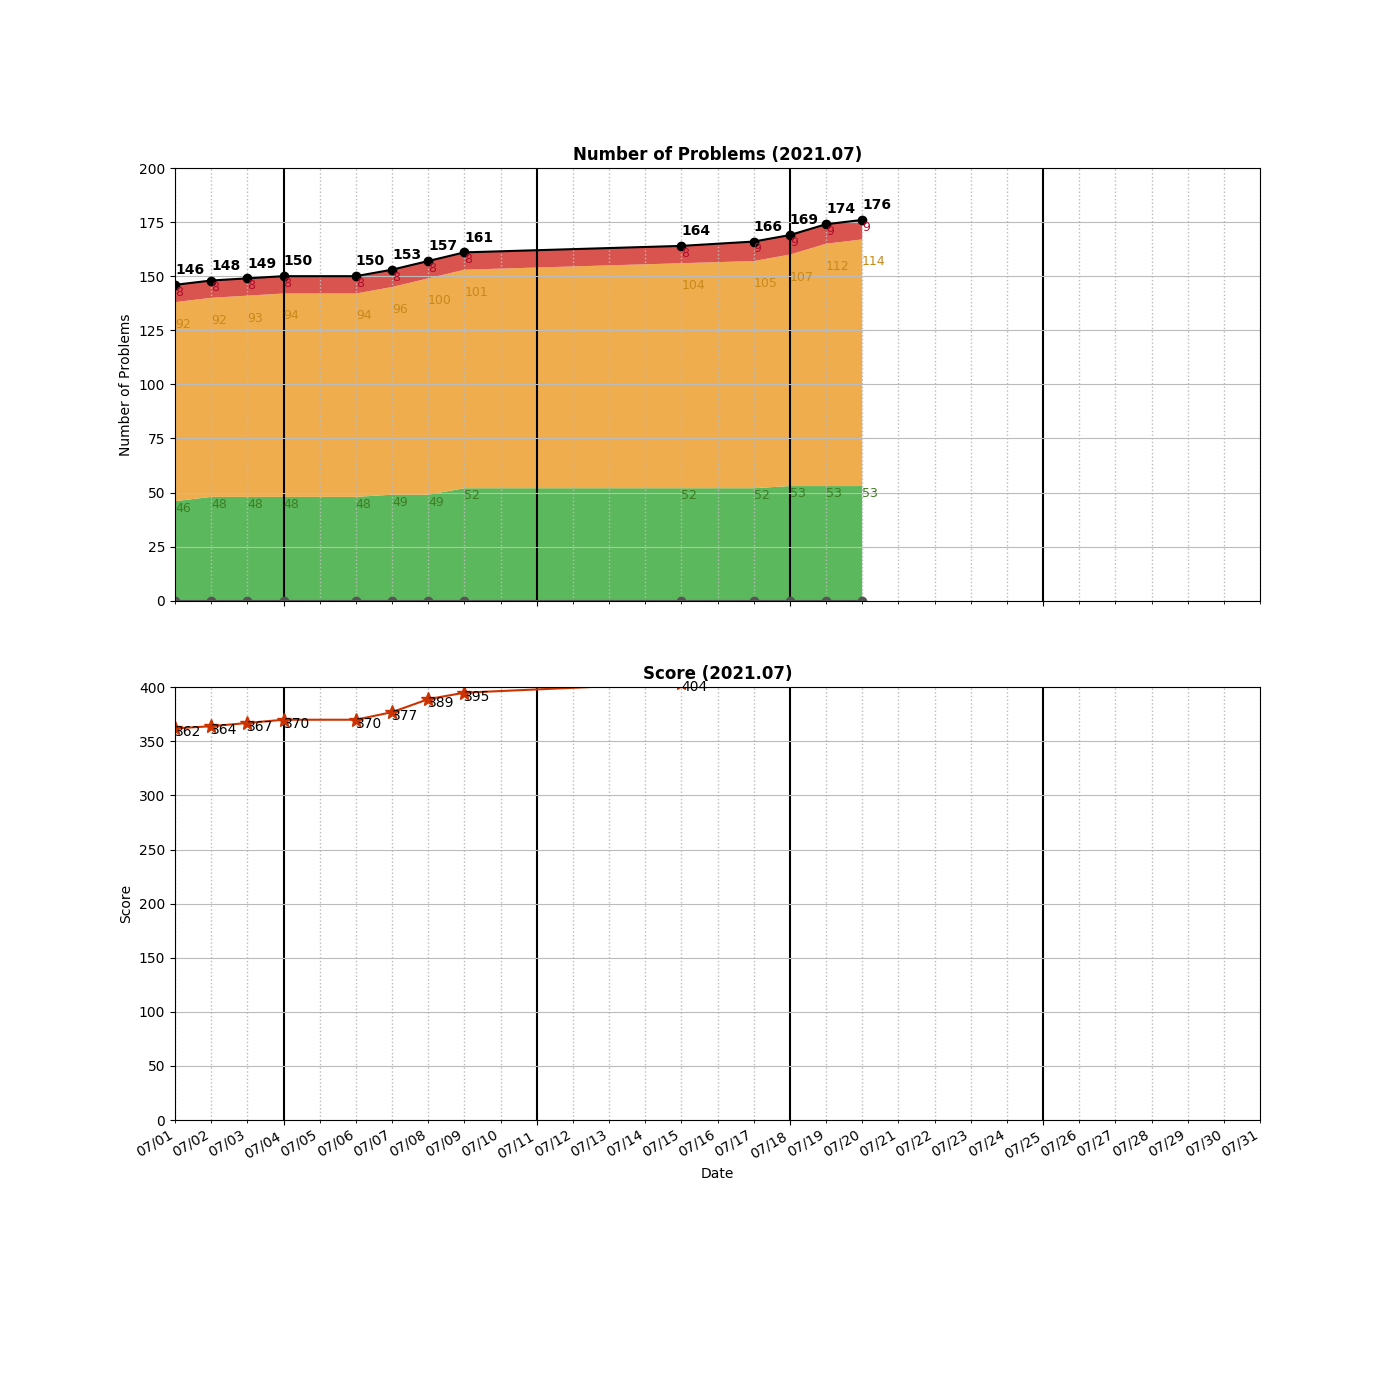
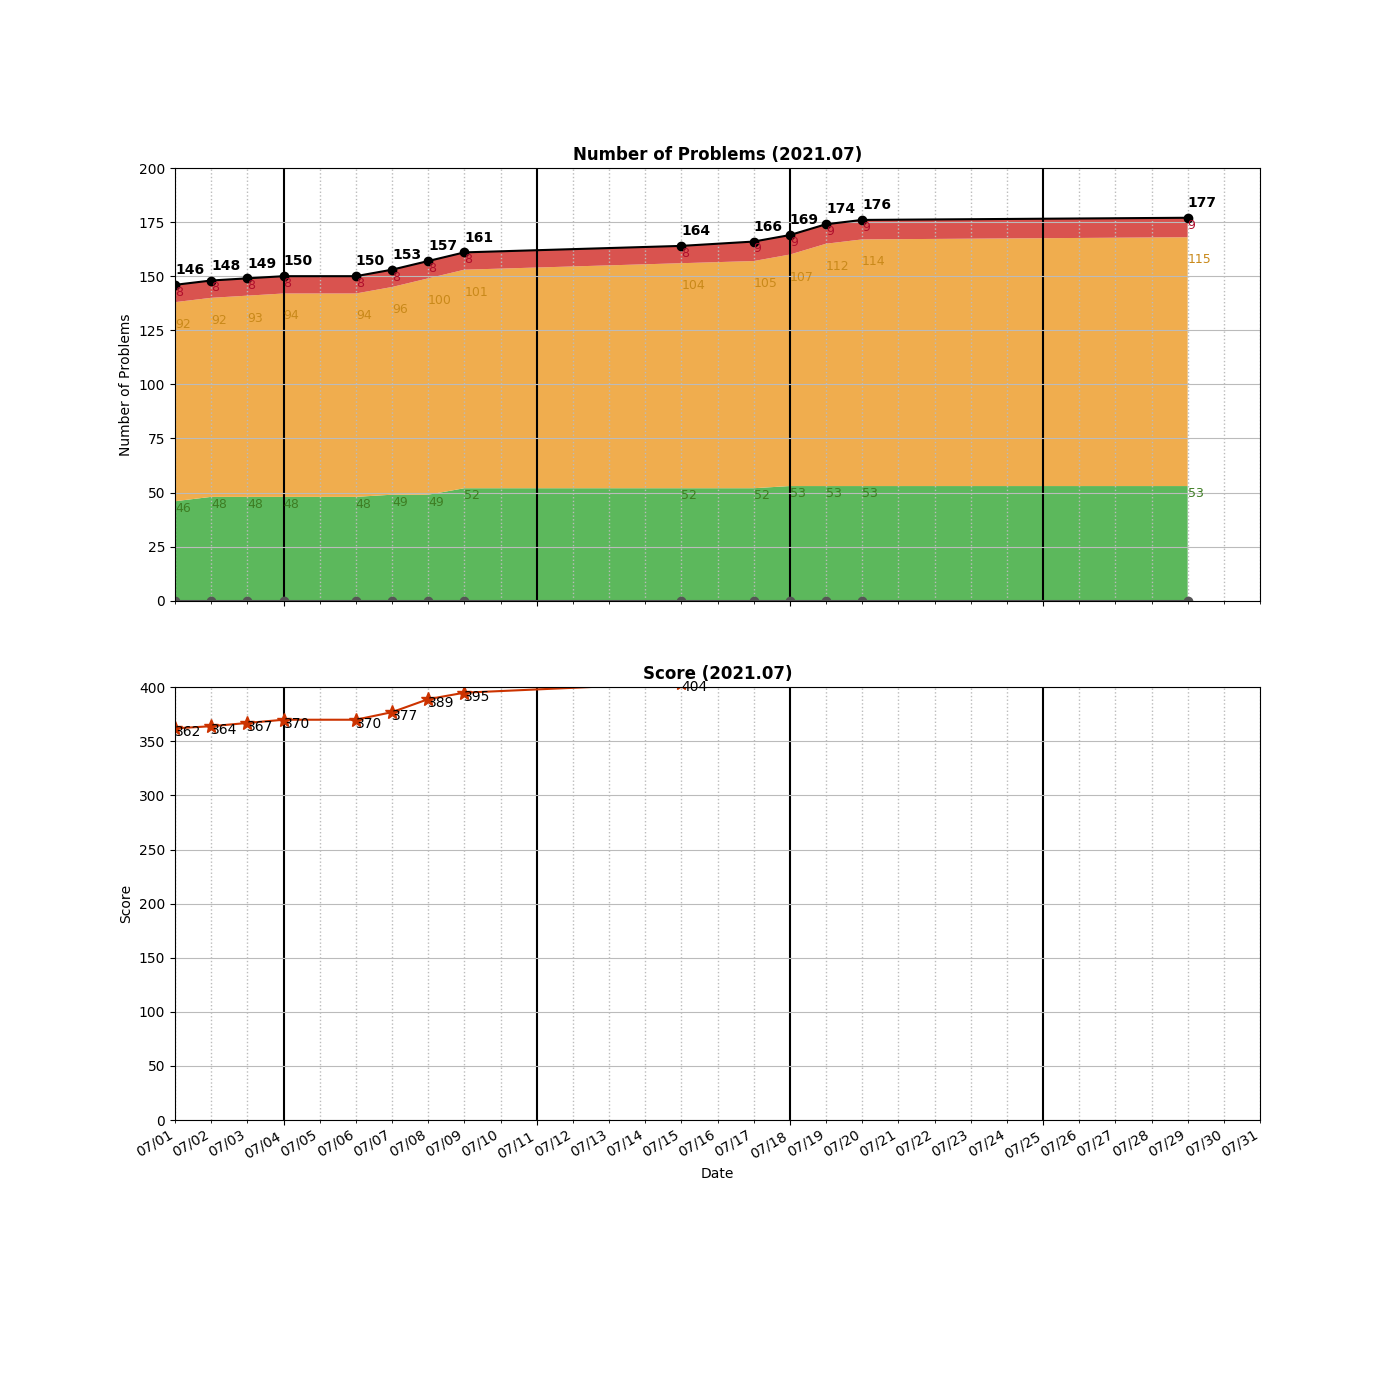
Added __0687__Longest Univalue Path.py

Changed region(s): [[0.6143, 0.1536, 0.86, 0.43]]

diff --git a/algo/Tree/__0687__Longest Univalue Path.py b/algo/Tree/__0687__Longest Univalue Path.py
@@ -1,0 +1,35 @@
+# Definition for a binary tree node.
+# class TreeNode:
+#     def __init__(self, val=0, left=None, right=None):
+#         self.val = val
+#         self.left = left
+#         self.right = right
+class Solution:
+    def longestUnivaluePath(self, root: TreeNode) -> int:
+        if not root: 
+            return 0
+        consecutiveCur, longestCur = self.findLongest(root)
+        
+        return max(consecutiveCur, longestCur)
+
+    def findLongest(self, root):
+        if not root:
+            return 0, 0
+        consecutiveL, longestL = self.findLongest(root.left)
+        consecutiveR, longestR = self.findLongest(root.right)
+
+        longestCur = max(longestL, longestR)
+
+        consecutiveCur = 0
+        
+        if root.left and root.right and root.left.val == root.val == root.right.val:
+            longestCur = max(longestCur, consecutiveL + consecutiveR + 2)
+            consecutiveCur = max(consecutiveL, consecutiveR) + 1
+        else:
+            if root.left and root.left.val == root.val:
+                consecutiveCur = consecutiveL + 1
+            if root.right and root.right.val == root.val:
+                consecutiveCur = max(consecutiveR + 1, consecutiveL)
+
+        longestCur = max(longestCur, consecutiveCur)
+        return consecutiveCur, longestCur

diff --git a/README.md b/README.md
@@ -167,6 +167,7 @@ algo
 │   ├── __0559__Maximum\ Depth\ of\ N-ary\ Tree.py
 │   ├── __0572__Subtree\ of\ Another\ Tree.py
 │   ├── __0617__Merge\ Two\ Binary\ Trees.py
+│   ├── __0687__Longest\ Univalue\ Path.py
 │   └── __0863__All\ Nodes\ Distance\ K\ in\ Binary\ Tree.py
 ├── Two-Pointer
 │   ├── __0003__Longest\ Substring\ Without\ Repeating\ Characters.py
@@ -203,7 +204,7 @@ algo
         ├── LinkedList.cpython-37.pyc
         └── UnrolledLinkedList.cpython-37.pyc
 
-20 directories, 182 files
+20 directories, 183 files
 
 =====================================
 ============= Local Repo ============
@@ -353,6 +354,7 @@ __0658__Find K Closest Elements.py
 __0670__Maximum Swap.py
 __0680__Valid Palindrome II.py
 __0684__Redundant Connection.py
+__0687__Longest Univalue Path.py
 __0694__Number of Distinct Islands.py
 __0695__Max Area of Island.py
 __0703__Kth Largest Element in a Stream.py
@@ -382,7 +384,7 @@ __1429__First Unique Number.py
 __1593__Split a String Into the Max Number of Unique Substrings.py
 __1905__Count Sub Islands.py
 =====================================
-Num of Python Practice:  173
+Num of Python Practice:  174
 
 
 =====================================
@@ -535,6 +537,7 @@ Num of Python Practice:  173
  0670 Maximum Swap
  0680 Valid Palindrome II
  0684 Redundant Connection
+ 0687 Longest Univalue Path
  0694 Number of Distinct Islands
  0695 Max Area of Island
  0703 Kth Largest Element in a Stream
@@ -565,11 +568,11 @@ Num of Python Practice:  173
  1593 Split a String Into the Max Number of Unique Substrings
  1905 Count Sub Islands
 =====================================
-Solved / Total (Easy)  :   53 /  507
-Solved / Total (Medium):  114 / 1021
-Solved / Total (Hard)  :    9 /  411
-Solved / Total (All)   :  176 / 1939
-Total Score            :  440
+Solved / Total (Easy)  :   53 /  508
+Solved / Total (Medium):  115 / 1028
+Solved / Total (Hard)  :    9 /  413
+Solved / Total (All)   :  177 / 1949
+Total Score            :  443
 =====================================
 
 ```
